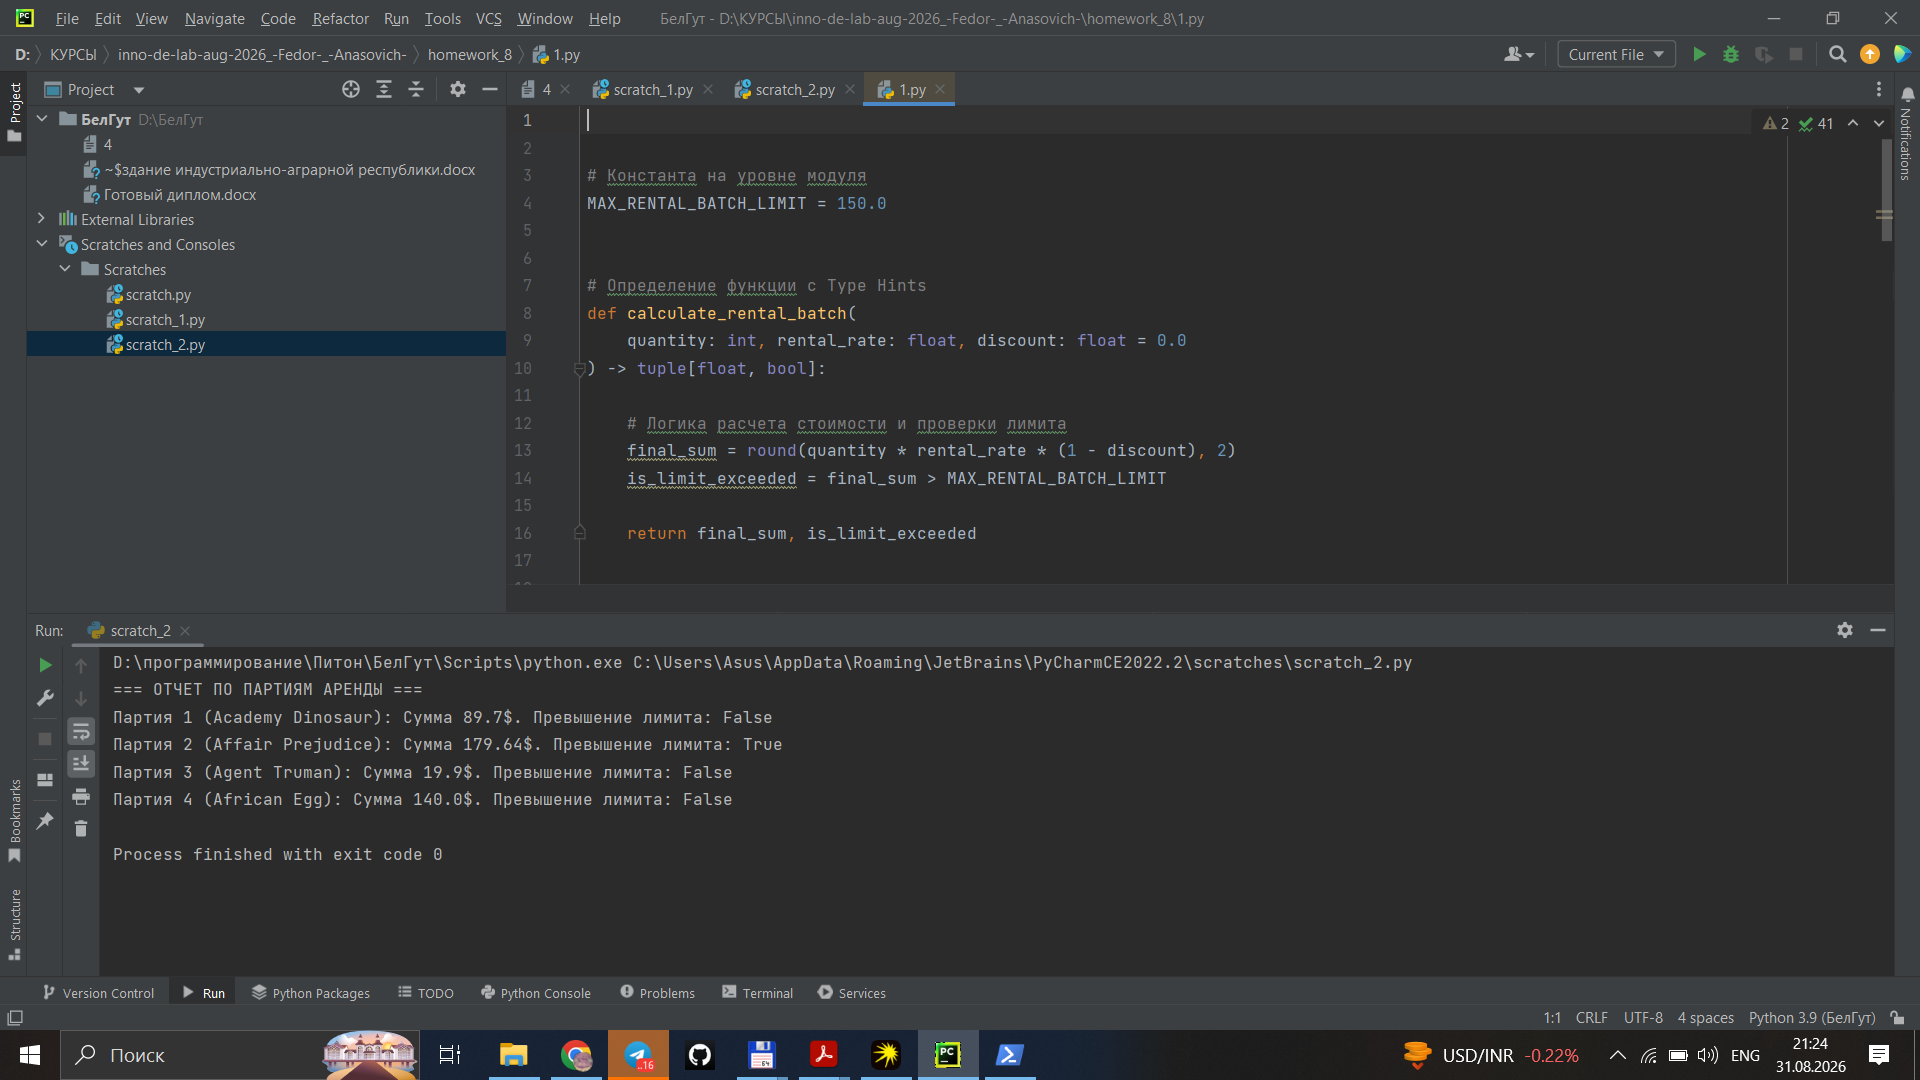
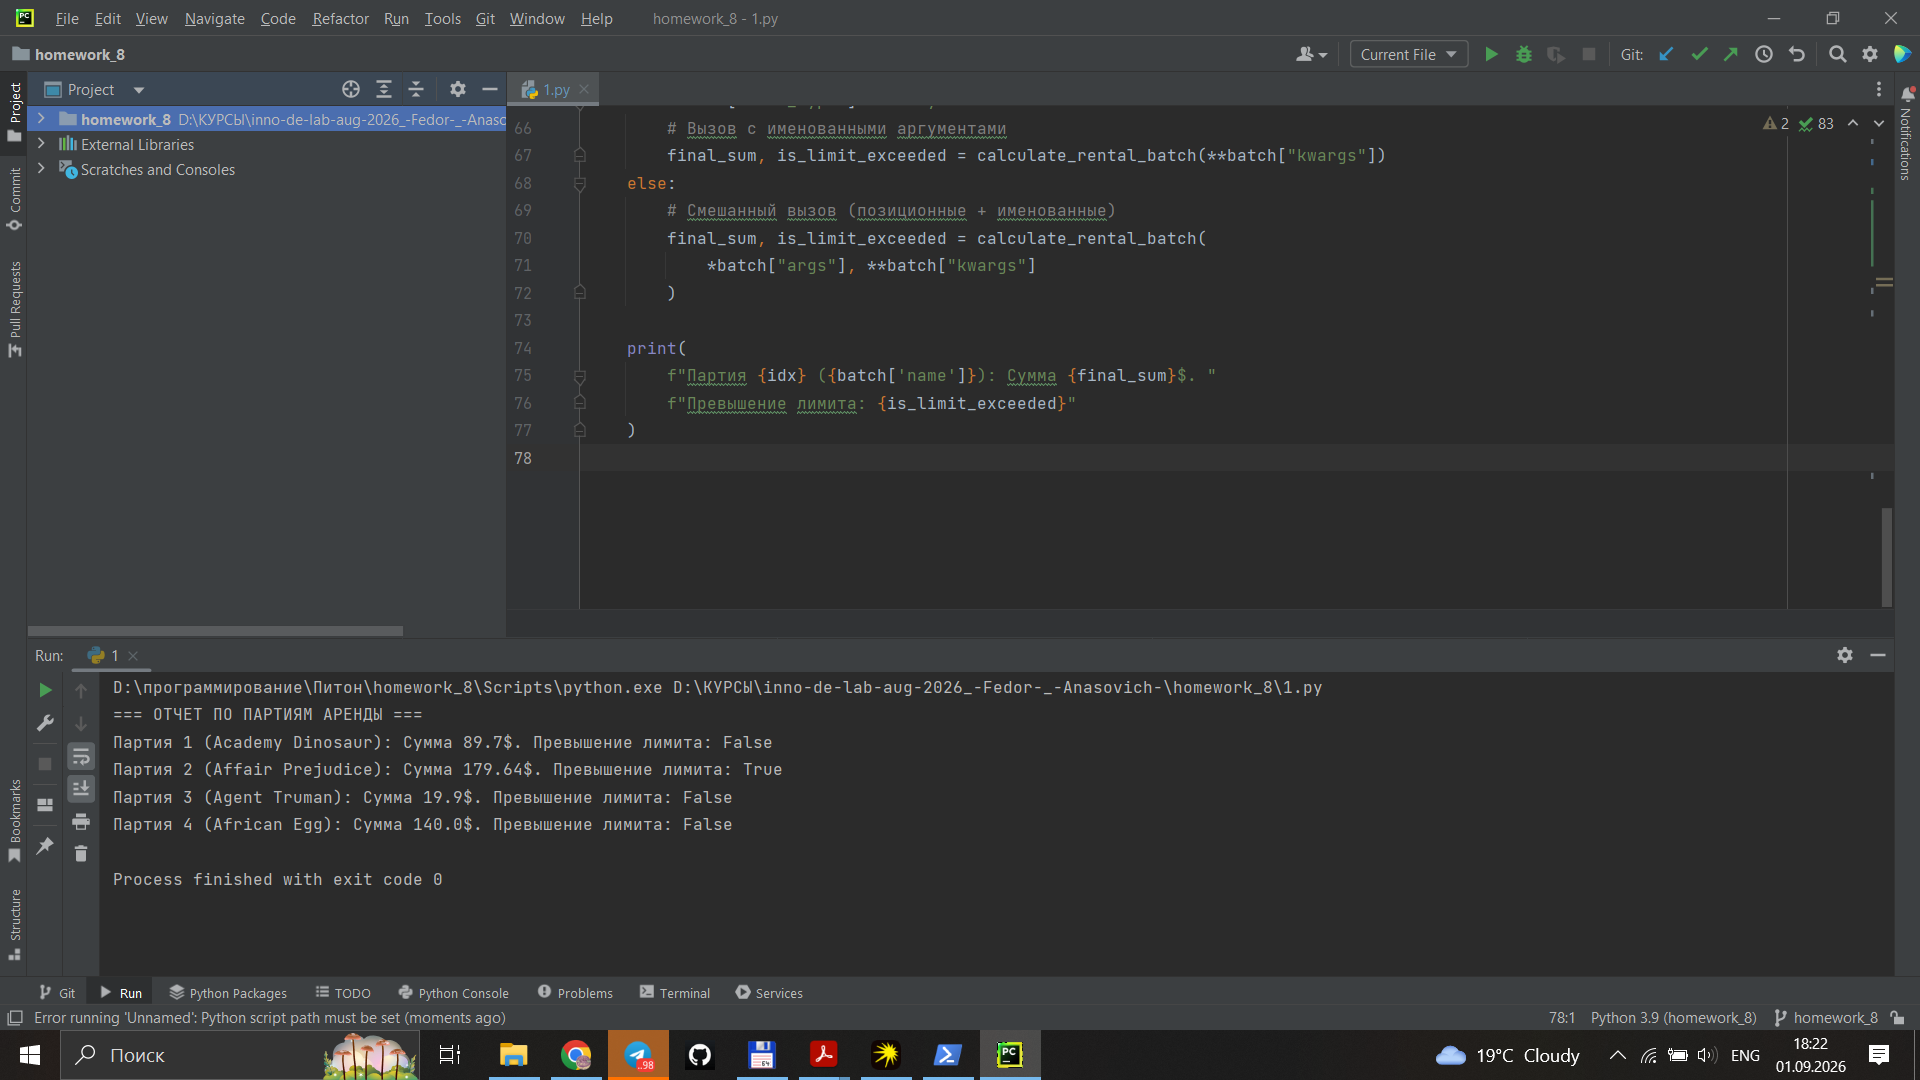
Fix type hints and optimize error logging according to mentor feedback

diff --git a/homework_8/3.py b/homework_8/3.py
@@ -1,16 +1,15 @@
-import io
-import sys
-from typing import Any, Optional, Tuple
+import functools
+from typing import Any
 
 # Константа на уровне модуля
 DEFAULT_RETURN_INDEX_BASE = 10.0
 
 
-# Реализация функции с безопасной обработкой исключений
+# Реализация функции с безопасной обработкой исключений и аннотациями по ТЗ
 def calculate_overdue_fine(
-    days_overdue: Any, fine_rate: float
-) -> Optional[Tuple[float, float]]:
-    """Рассчитывает сумму штрафа и технический индекс оборачиваемости фильма.
+        days_overdue: Any, fine_rate: float, title: str
+) -> tuple[float, float] | None:
+    """Рассчитывает сумму штрафа и technical индекс оборачиваемости фильма.
 
     Функция устойчива к некорректным входным данным и обрабатывает следующие
     ошибки:
@@ -23,9 +22,10 @@ def calculate_overdue_fine(
         days_overdue (Any): Количество дней просрочки (может быть любого типа
             из-за сырых данных).
         fine_rate (float): Ставка штрафа за один день просрочки.
+        title (str): Название фильма для формирования понятных логов.
 
     Returns:
-        Optional[Tuple[float, float]]: Кортеж (total_fine, return_index),
+        tuple[float, float] | None: Кортеж (total_fine, return_index),
             если расчет прошел успешно. Если произошла ошибка, возвращает None.
     """
     try:
@@ -39,15 +39,19 @@ def calculate_overdue_fine(
         return total_fine, return_index
 
     except ZeroDivisionError as e:
-        print(f"[ОШИБКА ДЕЛЕНИЯ НА НОЛЬ] Возврат без просрочки: {e}")
+        print(
+            f"[ОШИБКА ДЕЛЕНИЯ НА НОЛЬ] Возврат без просрочки для '{title}': {e}"
+        )
         return None
 
     except ValueError as e:
-        print(f"[ОШИБКА ЗНАЧЕНИЯ] Невозможно преобразовать дни в число: {e}")
+        print(
+            f"[ОШИБКА ЗНАЧЕНИЯ] Невозможно преобразовать дни в число для '{title}': {e}"
+        )
         return None
 
     except TypeError as e:
-        print(f"[ОШИБКА ТИПА] Некорректный тип данных: {e}")
+        print(f"[ОШИБКА ТИПА] Некорректный тип данных для '{title}': {e}")
         return None
 
     finally:
@@ -57,28 +61,23 @@ def calculate_overdue_fine(
 
 # --- Блок тестирования программы ---
 if __name__ == "__main__":
-    # Входные данные для тестов (Синтаксис исправлен на [3,])
+    # Входные данные для тестов (исправлен синтаксис [3,])
     test_cases = [
         {"title": "Matrix", "days": 5, "rate": 1.5},
         {"title": "Inception", "days": "пять", "rate": 2.0},
         {"title": "Avatar", "days": 0, "rate": 2.5},
-        {"title": "Interstellar", "days": [3,], "rate": 3.0},
+        {"title": "Interstellar", "days": [3, ], "rate": 3.0},
     ]
 
     print("=== ПРОВЕРКА ВОЗВРАТОВ ===")
 
     for movie in test_cases:
-        # Перенаправляем stdout, чтобы красиво встроить имя фильма в текст ошибки
-        old_stdout = sys.stdout
-        new_stdout = io.StringIO()
-        sys.stdout = new_stdout
-
-        # Вызов функции
-        result = calculate_overdue_fine(movie["days"], movie["rate"])
-
-        # Возвращаем стандартный вывод
-        sys.stdout = old_stdout
-        output = new_stdout.getvalue().strip().split("\n")
+        # Вызов функции с передачей названия фильма напрямую
+        result = calculate_overdue_fine(
+            days_overdue=movie["days"],
+            fine_rate=movie["rate"],
+            title=movie["title"],
+        )
 
         if result:
             # Успешный расчет
@@ -88,22 +87,6 @@ if __name__ == "__main__":
                 f"Итоговый штраф: {total_fine}$ | "
                 f"Индекс: {return_index}"
             )
-            print(output[-1])  # Печатаем строку из finally
-        else:
-            # Ошибка: форматируем вывод под требования задания
-            err_msg = output[0]
-            if "[ОШИБКА ЗНАЧЕНИЯ]" in err_msg:
-                err_msg = err_msg.replace(
-                    "число:", f"число для '{movie['title']}':"
-                )
-            elif "[ОШИБКА ДЕЛЕНИЯ НА НОЛЬ]" in err_msg:
-                err_msg = err_msg.replace(
-                    "просрочки:", f"просрочки для '{movie['title']}':"
-                )
-            elif "[ОШИБКА ТИПА]" in err_msg:
-                err_msg = err_msg.replace(
-                    "данных:", f"данных для '{movie['title']}':"
-                )
 
-            print(err_msg)
-            print(output[-1])  # Печатаем строку из finally
+        # Добавляем пустую строку для красивого разделения тестов в консоли
+        print()

diff --git a/homework_8/1.py b/homework_8/1.py
@@ -1,23 +1,33 @@
-
-
 # Константа на уровне модуля
 MAX_RENTAL_BATCH_LIMIT = 150.0
 
 
-# Определение функции с Type Hints
+# Определение функции с Type Hints и Google Docstring
 def calculate_rental_batch(
     quantity: int, rental_rate: float, discount: float = 0.0
 ) -> tuple[float, bool]:
+    """Рассчитывает финальную стоимость аренды партии и проверяет превышение лимита.
 
+    Args:
+        quantity (int): Количество арендуемых единиц.
+        rental_rate (float): Базовая стоимость аренды за одну единицу.
+        discount (float, optional): Процент скидки в виде десятичной дроби
+            (например, 0.1 для 10%). Значение по умолчанию: 0.0.
+
+    Returns:
+        tuple[float, bool]: Кортеж, содержащий:
+            - final_sum (float): Итоговая стоимость аренды, округленная до двух
+              знаков после запятой.
+            - is_limit_exceeded (bool): Флаг превышения лимита. True, если
+              итоговая стоимость больше MAX_RENTAL_BATCH_LIMIT, иначе False.
+    """
     # Логика расчета стоимости и проверки лимита
     final_sum = round(quantity * rental_rate * (1 - discount), 2)
     is_limit_exceeded = final_sum > MAX_RENTAL_BATCH_LIMIT
-
     return final_sum, is_limit_exceeded
 
 
 # Демонстрация работы и формирование отчета
-
 # Тестовые данные по партиям
 batches = [
     {
@@ -47,7 +57,6 @@ batches = [
 ]
 
 print("=== ОТЧЕТ ПО ПАРТИЯМ АРЕНДЫ ===")
-
 for idx, batch in enumerate(batches, 1):
     # Демонстрация разных способов вызова функции по требованию задания
     if batch["call_type"] == "positional":

diff --git a/homework_8/2.py b/homework_8/2.py
@@ -1,14 +1,14 @@
 import functools
 import time
-# Используем классические Dict, List и Union 
-from typing import Any, Callable, Dict, List, Union
+# Используем Callable и Any из typing, а коллекции — встроенные
+from typing import Any, Callable
 
 # Константы на уровне модуля
 PERFORMANCE_LOG_PREFIX = "[PERF_LOG]"
 TIME_DECIMALS = 8
 
-# Аннотация данных о выручке жанров (
-GenreSalesData = List[Dict[str, Union[str, float]]]
+# Аннотация данных о выручке жанров в соответствии с ТЗ (PEP 604)
+GenreSalesData = list[dict[str, str | float]]
 
 
 # Кастомный декоратор для замера времени выполнения
@@ -40,7 +40,7 @@ def performance_logger(func: Callable[..., Any]) -> Callable[..., Any]:
     return wrapper
 
 
-# 5. Основная функция отчета, обернутая декоратором
+# Основная функция отчета, обернутая декоратором
 @performance_logger
 def get_sorted_report(data: GenreSalesData) -> GenreSalesData:
     """Сортирует данные по выручке жанров кинопроката по убыванию.
@@ -60,7 +60,7 @@ def get_sorted_report(data: GenreSalesData) -> GenreSalesData:
 # --- Блок тестирования программы ---
 if __name__ == "__main__":
     # Входные данные для тестов
-    test_cases = [
+    test_cases: list[GenreSalesData] = [
         # Набор 1 (Стандартный)
         [
             {"category": "Action", "total_sales": 4311.85},

diff --git a/homework_7/main.py b/homework_7/main.py
@@ -1,0 +1,16 @@
+# This is a sample Python script.
+
+# Press Shift+F10 to execute it or replace it with your code.
+# Press Double Shift to search everywhere for classes, files, tool windows, actions, and settings.
+
+
+def print_hi(name):
+    # Use a breakpoint in the code line below to debug your script.
+    print(f'Hi, {name}')  # Press Ctrl+F8 to toggle the breakpoint.
+
+
+# Press the green button in the gutter to run the script.
+if __name__ == '__main__':
+    print_hi('PyCharm')
+
+# See PyCharm help at https://www.jetbrains.com/help/pycharm/
